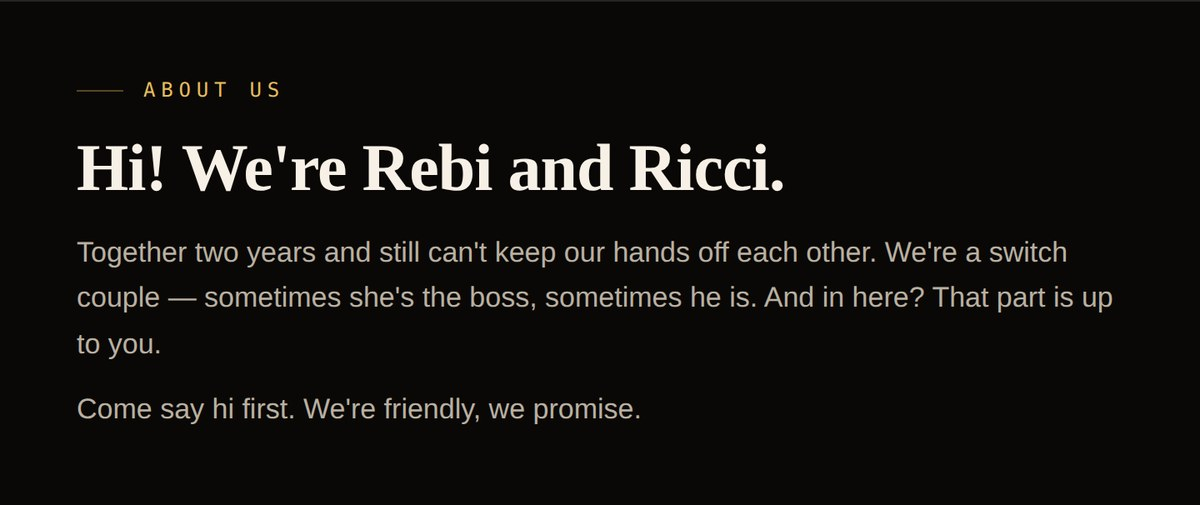
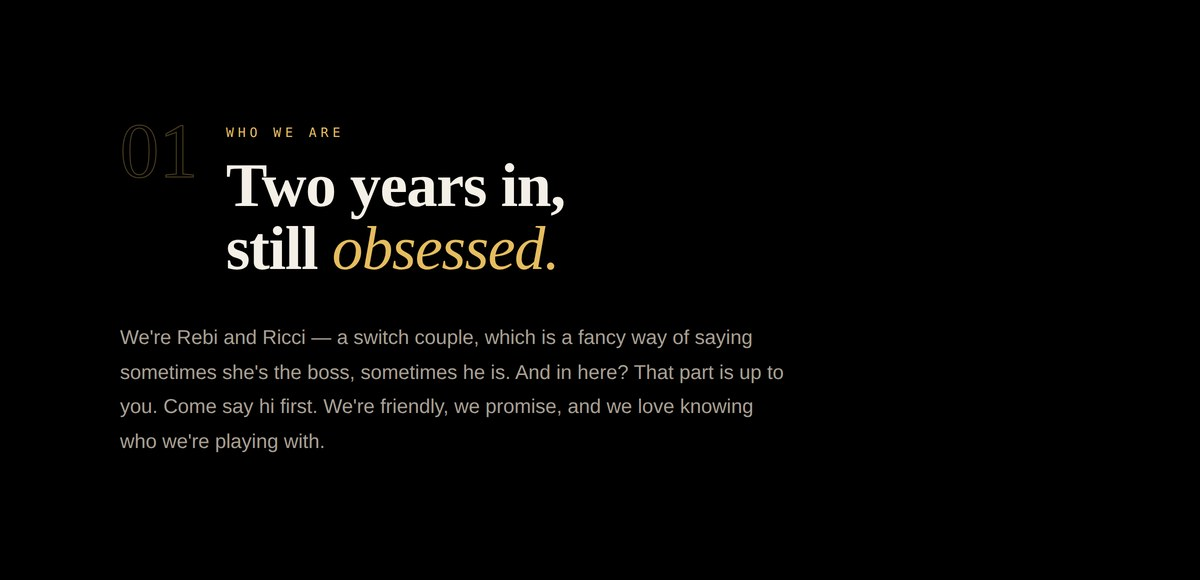
Editorial v3: full-bleed hero, section numbering, Fraunces display, graded photos, animated Fansly CTA sheen

diff --git a/bio-image3.html b/bio-image3.html
@@ -1,0 +1,183 @@
+<!DOCTYPE html>
+<html lang="en"><head><meta charset="UTF-8">
+<link rel="preconnect" href="https://fonts.googleapis.com"><link rel="preconnect" href="https://fonts.gstatic.com" crossorigin>
+<link href="https://fonts.googleapis.com/css2?family=Fraunces:ital,opsz,wght@0,9..144,400;0,9..144,500;0,9..144,600;1,9..144,500;1,9..144,600&family=DM+Sans:wght@300;400;500&family=JetBrains+Mono:wght@400;500&display=swap" rel="stylesheet">
+<style>
+:root{--gold:#e6bd5f;--gold2:#c9922f;--ink:#f4efe7;--soft:#a89f93;--faint:#6f6960;--line:rgba(244,239,231,.13);--gline:rgba(230,189,95,.32)}
+*{margin:0;padding:0;box-sizing:border-box}
+body{width:1200px;background:#000;color:var(--ink);font-family:"DM Sans",sans-serif;font-weight:300;-webkit-font-smoothing:antialiased}
+.sec{background:#000;padding:120px 120px}
+.head{display:flex;align-items:flex-start;gap:28px;margin-bottom:40px}
+.idx{font-family:"Fraunces",serif;font-weight:500;font-size:78px;line-height:.8;color:transparent;-webkit-text-stroke:1px var(--gline)}
+.htxt{padding-top:6px}
+.label{font-family:"JetBrains Mono",monospace;font-size:13px;letter-spacing:4px;text-transform:uppercase;color:var(--gold)}
+.hl{font-family:"Fraunces",serif;font-weight:600;font-size:62px;line-height:1.02;letter-spacing:-1px;margin-top:14px}
+.hl .g{color:var(--gold);font-style:italic;font-weight:500}
+.body{color:var(--soft);font-size:20px;line-height:1.72;max-width:60ch}
+.body.big{font-family:"Fraunces",serif;font-weight:400;font-size:30px;line-height:1.4;color:var(--ink);max-width:24ch}
+
+/* HERO full-bleed */
+#s-hero{position:relative;width:1200px;height:1500px;overflow:hidden;padding:0;background:#000}
+#s-hero .img{position:absolute;inset:0;background:url('assets/bio/hero-src.jpg') center 18%/cover no-repeat;
+  filter:contrast(1.05) saturate(.96) brightness(.96)}
+#s-hero .scrim{position:absolute;inset:0;background:
+  linear-gradient(180deg,rgba(0,0,0,.5) 0%,rgba(0,0,0,0) 26%,rgba(0,0,0,0) 52%,rgba(0,0,0,.85) 100%)}
+#s-hero .top{position:absolute;top:70px;left:80px;right:80px;display:flex;justify-content:space-between;
+  font-family:"JetBrains Mono",monospace;font-size:14px;letter-spacing:4px;text-transform:uppercase;color:var(--gold)}
+#s-hero .cap{position:absolute;left:80px;right:80px;bottom:90px}
+#s-hero .cap .big{font-family:"Fraunces",serif;font-weight:600;font-size:118px;line-height:.94;letter-spacing:-2px;color:#fff;text-shadow:0 8px 40px rgba(0,0,0,.5)}
+#s-hero .cap .big em{font-style:italic;color:var(--gold);font-weight:500}
+#s-hero .cap .sub{margin-top:18px;font-family:"Fraunces",serif;font-style:italic;font-size:32px;color:var(--ink);opacity:.92}
+
+/* photo grade helper */
+.graded{filter:contrast(1.05) saturate(.94) brightness(.98)}
+
+/* rules */
+.rules{margin-top:8px}
+.rules .r{display:grid;grid-template-columns:52px 1fr;gap:8px;align-items:baseline;padding:22px 0;border-bottom:1px solid var(--line)}
+.rules .n{font-family:"JetBrains Mono",monospace;font-size:14px;color:var(--gold)}
+.rules .t{font-size:21px;color:var(--ink)}
+.dont{margin-top:40px;display:flex;gap:26px;align-items:flex-start;max-width:70ch}
+.dont .k{font-family:"JetBrains Mono",monospace;font-size:12px;letter-spacing:2px;text-transform:uppercase;color:var(--gold);white-space:nowrap;padding-top:6px}
+.dont p{color:var(--soft);font-size:19px}.dont b{color:var(--ink);font-weight:500}
+
+/* tip / menu */
+.menu{margin-top:6px;display:flex;align-items:center;gap:34px;padding:34px 44px;border-radius:20px;
+  background:linear-gradient(100deg,rgba(230,189,95,.10),rgba(230,189,95,.02));border:1px solid var(--gline)}
+.menu .cmd{font-family:"JetBrains Mono",monospace;font-size:52px;color:var(--gold)}
+.menu p{color:var(--soft);font-size:19px;max-width:30ch}
+.podium{margin-top:56px;display:grid;grid-template-columns:1fr;gap:0;max-width:680px}
+.podium .r{display:flex;align-items:center;gap:30px;padding:26px 0;border-bottom:1px solid var(--line)}
+.podium .rk{font-family:"Fraunces",serif;font-style:italic;font-weight:500;font-size:44px;color:var(--gold);min-width:70px}
+.podium .nm{font-size:30px;color:var(--ink)}
+.podium .king{margin-top:26px;display:flex;align-items:center;gap:22px;padding:28px 32px;border-radius:16px;border:1px solid var(--gline);background:rgba(230,189,95,.05)}
+.podium .king .c{font-size:32px}
+.podium .king .l{font-family:"JetBrains Mono",monospace;font-size:12px;letter-spacing:2px;text-transform:uppercase;color:var(--gold);display:block;margin-bottom:4px}
+.podium .king .v{font-family:"Fraunces",serif;font-style:italic;font-size:30px}
+
+/* schedule */
+.sched{margin-top:10px;max-width:760px}
+.sched .r{display:flex;justify-content:space-between;align-items:baseline;padding:26px 0;border-bottom:1px solid var(--line)}
+.sched .z{font-family:"Fraunces",serif;font-size:30px;color:var(--ink)}
+.sched .t{font-family:"JetBrains Mono",monospace;font-size:22px;color:var(--gold)}
+.sched .foot{margin-top:30px;font-family:"JetBrains Mono",monospace;font-size:13px;letter-spacing:3px;text-transform:uppercase;color:var(--faint)}
+
+/* fansly cards */
+.card{position:relative;width:960px;margin:0 auto;border-radius:22px;overflow:hidden;border:1px solid var(--gline);background:#0a0806}
+.card .ph{width:100%;height:640px;object-fit:cover;display:block;filter:contrast(1.04) saturate(.95) brightness(.9)}
+.card .grad{position:absolute;left:0;right:0;top:0;height:640px;background:linear-gradient(180deg,rgba(0,0,0,.1),rgba(10,8,6,.75) 78%,#0a0806 100%)}
+.card .body{position:relative;padding:0 46px 46px;margin-top:-120px}
+.card .plat{font-family:"JetBrains Mono",monospace;font-size:13px;letter-spacing:3px;text-transform:uppercase;color:var(--gold)}
+.card .handle{font-family:"Fraunces",serif;font-style:italic;font-weight:600;font-size:60px;color:#fff;line-height:1;margin-top:8px}
+.card .d{color:var(--soft);font-size:19px;margin-top:16px;max-width:52ch}
+.chips{display:flex;gap:12px;margin-top:22px}
+.chip{font-family:"JetBrains Mono",monospace;font-size:15px;padding:10px 16px;border-radius:999px;border:1px solid var(--line);color:var(--soft)}
+.chip b{color:var(--ink);font-weight:500}
+.chip.promo{border-color:var(--gline);color:var(--gold);background:rgba(230,189,95,.08)}.chip.promo b{color:var(--gold)}
+.cta{position:relative;overflow:hidden;display:inline-block;margin-top:30px;font-family:"JetBrains Mono",monospace;font-size:15px;letter-spacing:3px;text-transform:uppercase;color:#000;background:linear-gradient(90deg,var(--gold2),var(--gold));border-radius:999px;padding:18px 44px}
+.cta .sheen{position:absolute;top:0;bottom:0;width:60%;left:-60%;background:linear-gradient(100deg,transparent,rgba(255,255,255,.7),transparent);animation:sweep 2.6s ease-in-out infinite}
+@keyframes sweep{0%{left:-60%}55%,100%{left:130%}}
+
+/* dmca */
+#s-dmca{text-align:center;padding-top:100px;padding-bottom:110px}
+.age{display:inline-block;font-family:"JetBrains Mono",monospace;font-size:13px;letter-spacing:3px;color:var(--gold);border:1px solid var(--gline);border-radius:999px;padding:9px 20px;margin-bottom:30px}
+.meta{font-family:"JetBrains Mono",monospace;font-size:13px;letter-spacing:1px;color:var(--faint);margin-top:22px}
+.meta b{color:var(--gold);font-weight:400}
+.rule{height:1px;background:var(--gline);width:70px;margin:0 auto 40px}
+</style></head>
+<body>
+
+<!-- HERO -->
+<div id="s-hero">
+  <div class="img"></div><div class="scrim"></div>
+  <div class="top"><span>Rebi &amp; Ricci</span><span>Live from Vienna</span></div>
+  <div class="cap">
+    <div class="big">come play<br><em>with us</em></div>
+    <div class="sub">a switch couple — you decide who's in charge.</div>
+  </div>
+</div>
+
+<!-- 01 ABOUT -->
+<div class="sec" id="s-about">
+  <div class="head"><div class="idx">01</div><div class="htxt"><div class="label">Who we are</div><div class="hl">Two years in,<br>still <span class="g">obsessed.</span></div></div></div>
+  <div class="body">We're Rebi and Ricci — a switch couple, which is a fancy way of saying sometimes she's the boss, sometimes he is. And in here? That part is up to you. Come say hi first. We're friendly, we promise, and we love knowing who we're playing with.</div>
+</div>
+
+<!-- 02 RULES -->
+<div class="sec" id="s-rules">
+  <div class="head"><div class="idx">02</div><div class="htxt"><div class="label">House rules</div><div class="hl">Be sweet,<br>tip <span class="g">first.</span></div></div></div>
+  <div class="rules">
+    <div class="r"><span class="n">01</span><span class="t">Tip first, then ask — requests without a tip don't get answered.</span></div>
+    <div class="r"><span class="n">02</span><span class="t">Dirty talk is for tippers, sorry!</span></div>
+    <div class="r"><span class="n">03</span><span class="t">Our prices aren't up for haggling.</span></div>
+    <div class="r"><span class="n">04</span><span class="t">Please don't advertise other models in here.</span></div>
+    <div class="r"><span class="n">05</span><span class="t">No recording, screenshotting or reposting.</span></div>
+  </div>
+  <div class="dont"><span class="k">We don't do</span><p><b>Cam2cam.</b> But custom videos? Those we adore making. Ask us about anything else — we're a lot more open than this little list makes us sound.</p></div>
+</div>
+
+<!-- 03 TIP MENU -->
+<div class="sec" id="s-tip">
+  <div class="head"><div class="idx">03</div><div class="htxt"><div class="label">Tipping</div><div class="hl">Tip with a<br>little <span class="g">note.</span></div></div></div>
+  <div class="body" style="margin-bottom:44px">Tell us what you'd love to see — we read every single one, even the tiny tips.</div>
+  <div class="menu"><span class="cmd">/menu</span><p>Type it in the chat to see the whole menu.</p></div>
+  <div class="podium">
+    <div class="label" style="margin-top:56px;margin-bottom:8px">&#128081; Top 3 guests · new king every hour</div>
+    <div class="r"><span class="rk">1st</span><span class="nm">[name]</span></div>
+    <div class="r"><span class="rk">2nd</span><span class="nm">[name]</span></div>
+    <div class="r"><span class="rk">3rd</span><span class="nm">[name]</span></div>
+    <div class="king"><span class="c">&#128081;</span><div><span class="l">This hour's king</span><span class="v">[name]</span></div></div>
+  </div>
+</div>
+
+<!-- 04 SCHEDULE -->
+<div class="sec" id="s-sched">
+  <div class="head"><div class="idx">04</div><div class="htxt"><div class="label">Schedule</div><div class="hl">Live almost<br><span class="g">every day.</span></div></div></div>
+  <div class="sched">
+    <div class="r"><span class="z">Vienna</span><span class="t">16:00 – 04:00</span></div>
+    <div class="r"><span class="z">New York / Toronto</span><span class="t">10 AM – 10 PM</span></div>
+    <div class="r"><span class="z">Los Angeles / Vancouver</span><span class="t">7 AM – 7 PM</span></div>
+    <div class="foot">We speak English &amp; German</div>
+  </div>
+</div>
+
+<!-- 05 FANSLY -->
+<div class="sec" id="s-fanslyhead" style="padding-bottom:50px">
+  <div class="head"><div class="idx">05</div><div class="htxt"><div class="label">Fansly</div><div class="hl">Where the rest<br>of us <span class="g">lives.</span></div></div></div>
+</div>
+
+<div class="sec" id="s-couple" style="padding-top:0;padding-bottom:40px">
+  <div class="card">
+    <img class="ph" src="assets/bio/couple-src.jpg"><div class="grad"></div>
+    <div class="body">
+      <div class="plat">&#9670; Fansly · The two of us</div>
+      <div class="handle">dreamcouple69</div>
+      <div class="d">Uncut. Full scenes, stream recordings, and the nights we stay in and don't go live at all.</div>
+      <div class="chips"><span class="chip promo"><b>Softcore</b> $4.99 first month</span><span class="chip"><b>Hardcore</b> $12.99 til Aug</span></div>
+      <div class="cta">Open Fansly &#8599;<span class="sheen"></span></div>
+    </div>
+  </div>
+</div>
+
+<div class="sec" id="s-solo" style="padding-top:0;padding-bottom:80px">
+  <div class="card">
+    <img class="ph" src="assets/bio/solo-src.jpg" style="object-position:center 30%"><div class="grad"></div>
+    <div class="body">
+      <div class="plat">&#9670; Fansly · Just Rebi</div>
+      <div class="handle">badbunnyyy77</div>
+      <div class="d">Her soft, feminine side… and the other side that likes being in charge. All to yourself.</div>
+      <div class="chips"><span class="chip"><b>Softcore</b> $5</span><span class="chip"><b>Hardcore</b> $20</span></div>
+      <div class="cta">Open Fansly &#8599;<span class="sheen"></span></div>
+    </div>
+  </div>
+</div>
+
+<!-- 06 DMCA -->
+<div class="sec" id="s-dmca">
+  <div class="rule"></div>
+  <div class="age">18+ ONLY</div>
+  <div class="body" style="margin:0 auto;text-align:center;max-width:52ch;color:var(--soft)">Everything here is ours. Recording, screenshotting or reposting without our okay isn't allowed. This is a live, one-time viewing only.</div>
+  <div class="meta">Protected by <b>bruqi.com</b> &nbsp;·&nbsp; Chaturbate DMCA &nbsp;·&nbsp; &copy; Rebi &amp; Ricci</div>
+</div>
+
+</body></html>
